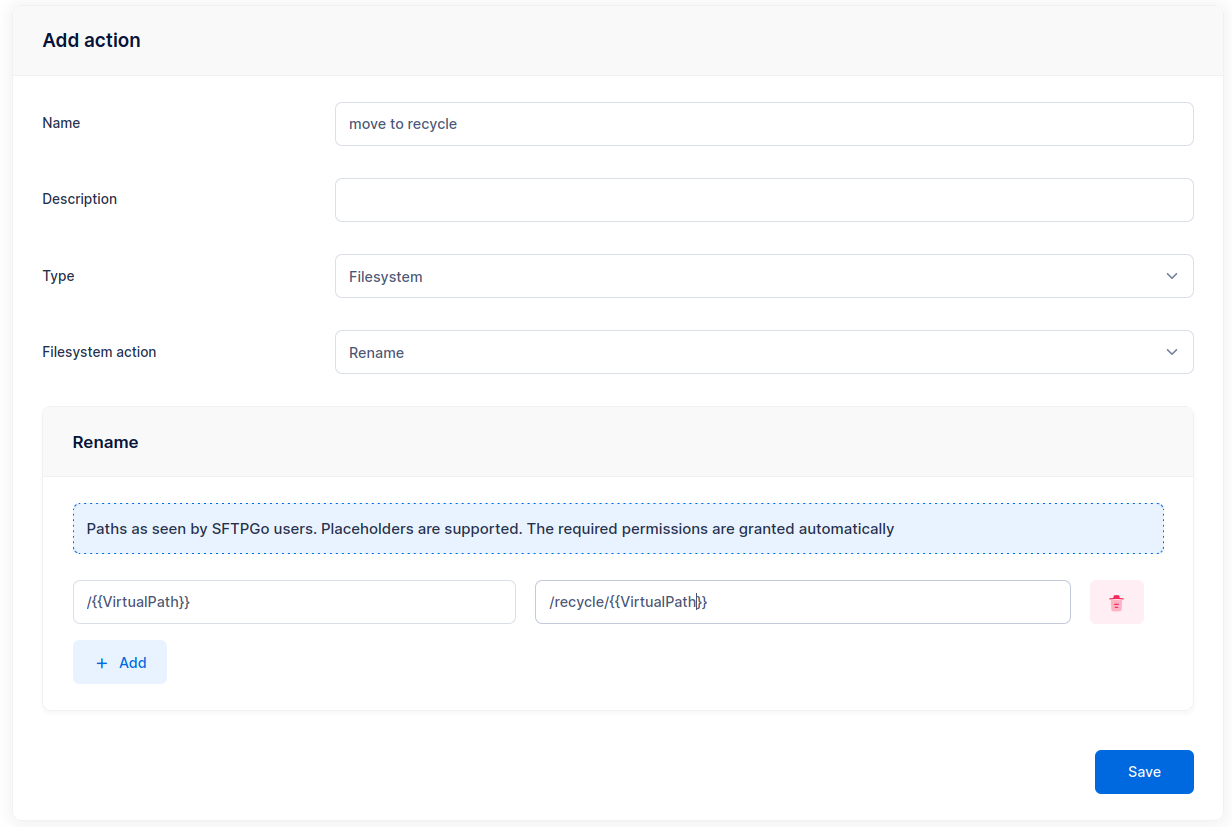
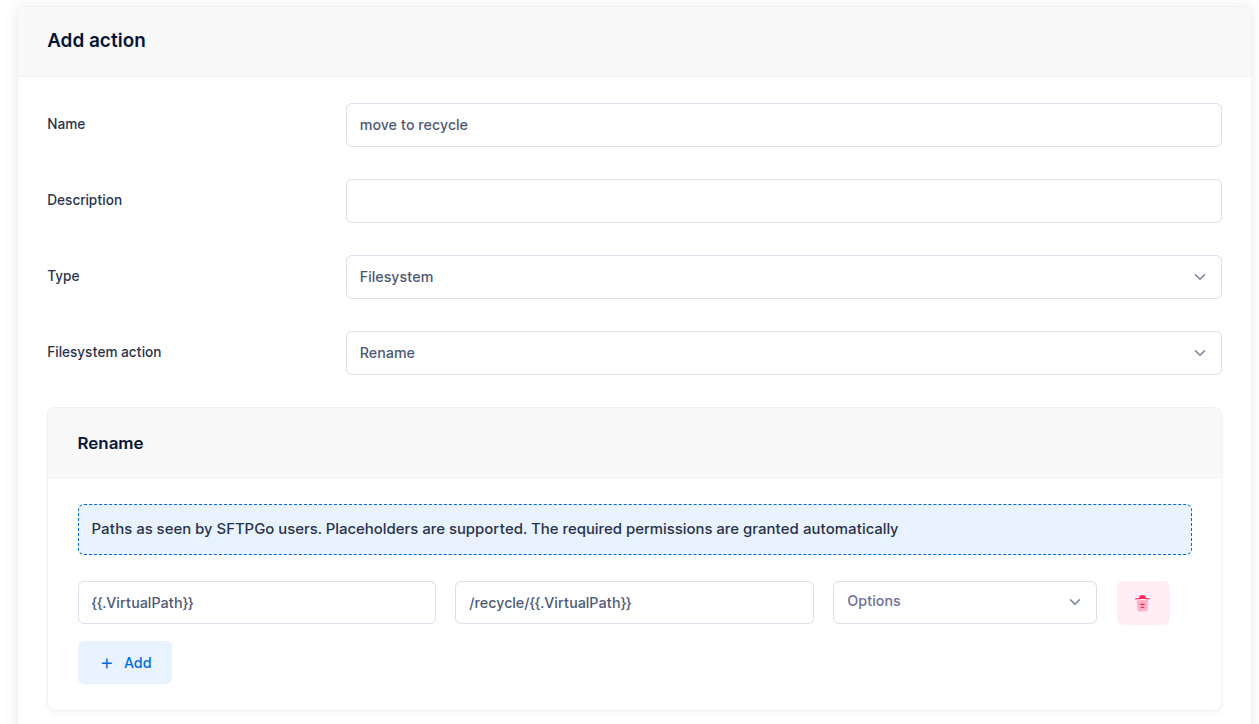
EventManager: document the new syntax for placeholders

diff --git a/docs/eventmanager.md b/docs/eventmanager.md
@@ -27,36 +27,36 @@ The following actions are supported:
 
 The following placeholders are supported:
 
-- `{{Name}}`. Username, virtual folder name, admin username for provider events, domain name for TLS certificate events.
-- `{{Event}}`. Event name, for example `upload`, `download` for filesystem events or `add`, `update` for provider events.
-- `{{Status}}`. Status for filesystem events. 1 means no error, 2 means a generic error occurred, 3 means quota exceeded error.
-- `{{StatusString}}`. Status as string. Possible values "OK", "KO".
-- `{{ErrorString}}`. Error details. Replaced with an empty string if no errors occur.
-- `{{VirtualPath}}`. Path seen by SFTPGo users, for example `/adir/afile.txt`.
-- `{{VirtualDirPath}}`. Parent directory for VirtualPath, for example if VirtualPath is "/adir/afile.txt", VirtualDirPath is "/adir".
-- `{{FsPath}}`. Full filesystem path, for example `/user/homedir/adir/afile.txt` or `C:/data/user/homedir/adir/afile.txt` on Windows.
-- `{{ObjectName}}`. File/directory name, for example `afile.txt` or provider object name.
-- `{{ObjectType}}`. Object type for provider events: `user`, `group`, `admin`, etc.
-- `{{Ext}}`. File extension, for example `.txt` if the filename is `afile.txt`.
-- `{{VirtualTargetPath}}`. Virtual target path for rename and copy operations.
-- `{{VirtualTargetDirPath}}`. Parent directory for VirtualTargetPath.
-- `{{TargetName}}`. Target object name for rename and copy operations.
-- `{{FsTargetPath}}`. Full filesystem target path for rename and copy operations.
-- `{{FileSize}}`. File size.
-- `{{Elapsed}}`. Elapsed time as milliseconds for filesystem events.
-- `{{Protocol}}`. Used protocol, for example `SFTP`, `FTP`.
-- `{{IP}}`. Client IP address.
-- `{{Role}}`. User or admin role.
-- `{{Timestamp}}`. Event timestamp as nanoseconds since epoch.
-- `{{DateTime}}`. Event timestamp formatted as YYYY-MM-DDTHH:MM:SS.ZZZ.
-- `{{Email}}`. For filesystem events, this is the email associated with the user performing the action. For the provider events, this is the email associated with the affected user or admin. Blank in all other cases.
-- `{{ObjectData}}`. Provider object data serialized as JSON with sensitive fields removed.
-- `{{ObjectDataString}}`. Provider object data as JSON escaped string with sensitive fields removed.
-- `{{RetentionReports}}`. Data retention reports as zip compressed CSV files. Supported as email attachment, file path for multipart HTTP request and as single parameter for HTTP requests body. Data retention reports contain details on the number of files deleted and the total size deleted for each folder.
-- `{{IDPField<fieldname>}}`. Identity Provider custom fields containing a string.
-- `{{Metadata}}`. Cloud storage metadata for the downloaded file serialized as JSON.
-- `{{MetadataString}}`. Cloud storage metadata for the downloaded file as JSON escaped string.
-- `{{UID}}`. Unique ID.
+- `{{.Name}}`. Username, virtual folder name, admin username for provider events, domain name for TLS certificate events.
+- `{{.Event}}`. Event name, for example `upload`, `download` for filesystem events or `add`, `update` for provider events.
+- `{{.Status}}`. Status for filesystem events. 1 means no error, 2 means a generic error occurred, 3 means quota exceeded error.
+- `{{.StatusString}}`. Status as string. Possible values "OK", "KO".
+- `{{.ErrorString}}`. Error details. Replaced with an empty string if no errors occur.
+- `{{.VirtualPath}}`. Path seen by SFTPGo users, for example `/adir/afile.txt`.
+- `{{.VirtualDirPath}}`. Parent directory for VirtualPath, for example if VirtualPath is "/adir/afile.txt", VirtualDirPath is "/adir".
+- `{{.FsPath}}`. Full filesystem path, for example `/user/homedir/adir/afile.txt` or `C:/data/user/homedir/adir/afile.txt` on Windows.
+- `{{.ObjectName}}`. File/directory name, for example `afile.txt` or provider object name.
+- `{{.ObjectType}}`. Object type for provider events: `user`, `group`, `admin`, etc.
+- `{{.Ext}}`. File extension, for example `.txt` if the filename is `afile.txt`.
+- `{{.VirtualTargetPath}}`. Virtual target path for rename and copy operations.
+- `{{.VirtualTargetDirPath}}`. Parent directory for VirtualTargetPath.
+- `{{.TargetName}}`. Target object name for rename and copy operations.
+- `{{.FsTargetPath}}`. Full filesystem target path for rename and copy operations.
+- `{{.FileSize}}`. File size.
+- `{{.Elapsed}}`. Elapsed time as milliseconds for filesystem events.
+- `{{.Protocol}}`. Used protocol, for example `SFTP`, `FTP`.
+- `{{.IP}}`. Client IP address.
+- `{{.Role}}`. User or admin role.
+- `{{.Timestamp}}`. Event timestamp as nanoseconds since epoch.
+- `{{.DateTime}}`. Event timestamp formatted as YYYY-MM-DDTHH:MM:SS.ZZZ.
+- `{{.Email}}`. For filesystem events, this is the email associated with the user performing the action. For the provider events, this is the email associated with the affected user or admin. Blank in all other cases.
+- `{{.ObjectData}}`. Provider object data serialized as JSON with sensitive fields removed.
+- `{{.ObjectDataString}}`. Provider object data as JSON escaped string with sensitive fields removed.
+- `{{.RetentionReports}}`. Data retention reports as zip compressed CSV files. Supported as email attachment, file path for multipart HTTP request and as single parameter for HTTP requests body. Data retention reports contain details on the number of files deleted and the total size deleted for each folder.
+- `{{.IDPField<fieldname>}}`. Identity Provider custom fields containing a string.
+- `{{.Metadata}}`. Cloud storage metadata for the downloaded file serialized as JSON.
+- `{{.MetadataString}}`. Cloud storage metadata for the downloaded file as JSON escaped string.
+- `{{.UID}}`. Unique ID.
 
 Event rules are based on the premise that an event occours. To each rule you can associate one or more actions.
 The following trigger events are supported:

diff --git a/docs/tutorials/eventmanager.md b/docs/tutorials/eventmanager.md
@@ -30,8 +30,8 @@ Create an action named `backup` and set the type to `Backup`.
 ![Backup action](../assets/img/backup-action.png){data-gallery="backup"}
 
 Create another action named `backup notification`, set the type to `Email` and fill the recipient/s.
-As email subject set `Backup {{StatusString}}`. The `{{StatusString}}` placeholder will be expanded to `OK` or `KO`.
-As email body set `Backup done {{ErrorString}}`. The error string will be empty if no errors occur.
+As email subject set `Backup {{.StatusString}}`. The `{{.StatusString}}` placeholder will be expanded to `OK` or `KO`.
+As email body set `Backup done {{.ErrorString}}`. The error string will be empty if no errors occur.
 
 ![Backup notification action](../assets/img/backup-notification-action.png){data-gallery="backup-notification"}
 
@@ -55,8 +55,8 @@ Create an action named `create dirs`, with the settings you can see in the follo
 ![Create dirs action](../assets/img/create-dirs-action.png){data-gallery="create-dir-action"}
 
 Create another action named `create dirs failure notification`, set the type to `Email` and fill the recipient/s.
-As email subject set `Unable to create dirs for user {{ObjectName}}`.
-As email body set `Error: {{ErrorString}}`.
+As email subject set `Unable to create dirs for user {{.ObjectName}}`.
+As email body set `Error: {{.ErrorString}}`.
 
 ![Create dirs notification](../assets/img/create-dirs-failure-notification.png){data-gallery="create-dir-failure-action"}
 

diff --git a/docs/oidc.md b/docs/oidc.md
@@ -167,4 +167,4 @@ The pre-login hook will receive a JSON serialized user with the following field:
 ...
 ```
 
-In EventManager actions you can use the placeholder `{{IDPFieldsftpgo_home_dir}}` for string-based custom fields.
+In EventManager actions you can use the placeholder `{{.IDPFieldsftpgo_home_dir}}` for string-based custom fields.
